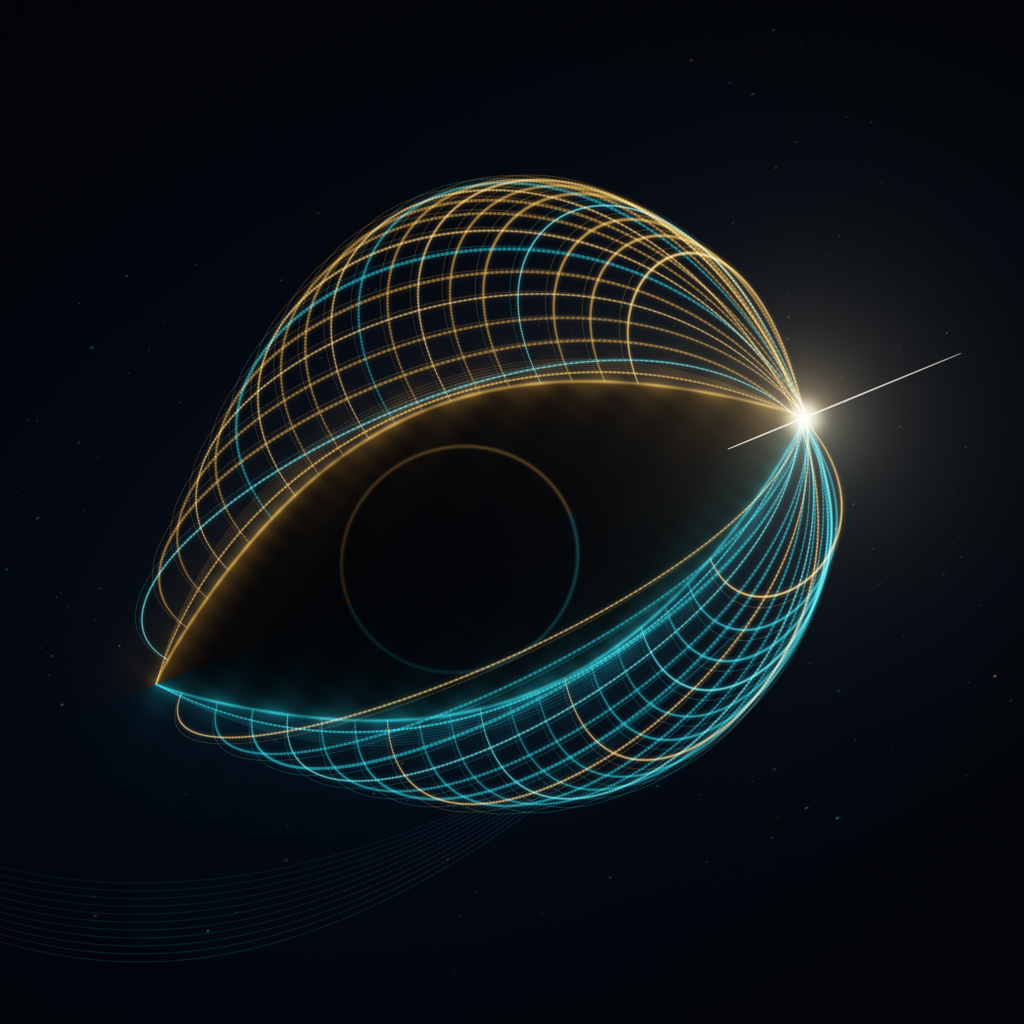
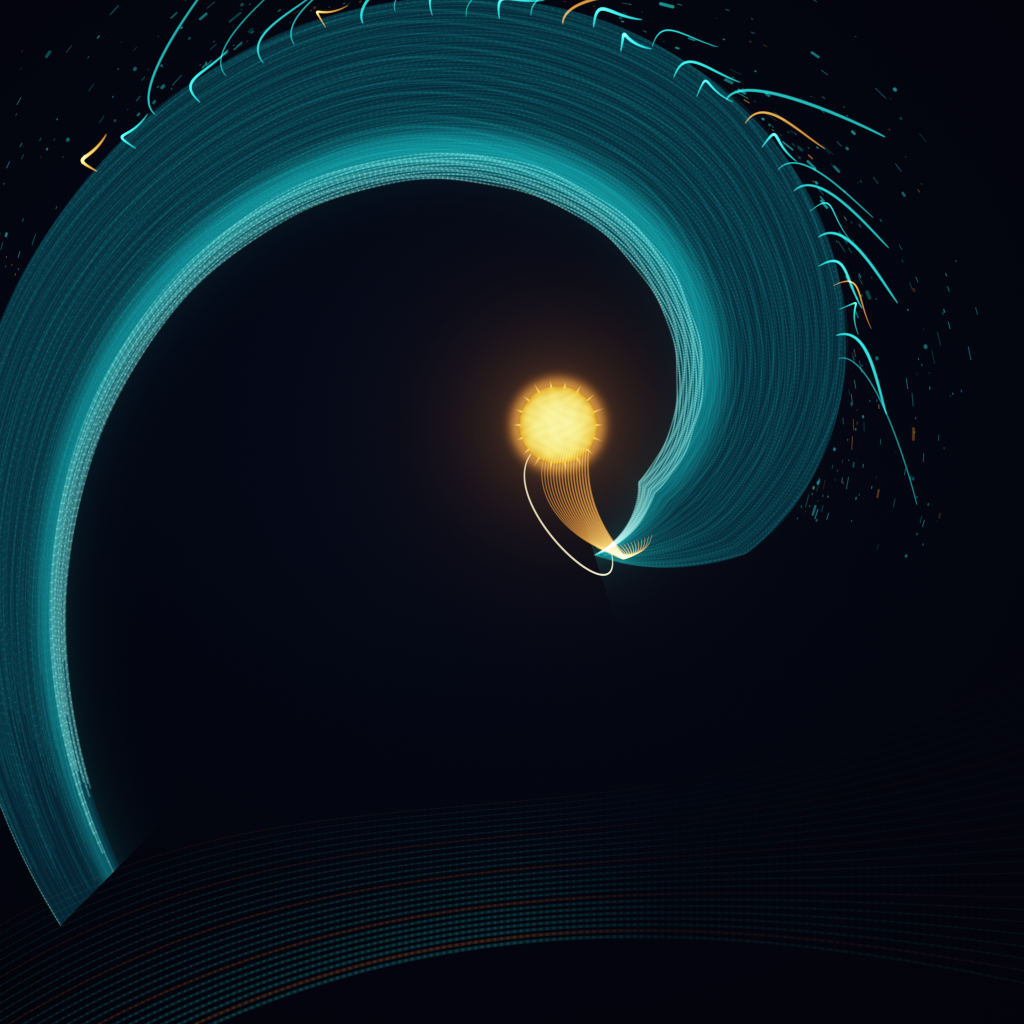
new entry: the wave that swallows a sun (radiant flares, softened streaks, luminous tail edge)

diff --git a/main.ts b/main.ts
@@ -2,7 +2,7 @@ import { mkdir, writeFile } from 'node:fs/promises';
 import { join } from 'node:path';
 import { deflateSync } from 'node:zlib';
 
-// SOLAR IRIS — a magnetic aperture caught at the instant it opens.
+// SUNSTEALER — an ocean of aurora curls up and steals a living sun.
 // All geometry and grain are deterministic; render at twice the final size.
 const W = 1024, H = 1024, S = 2, SW = W * S, SH = H * S;
 type Point = readonly [number, number];
@@ -14,11 +14,7 @@ const hash = (x: number, y: number) => {
   n = Math.imul(n ^ (n >>> 13), 1274126177);
   return ((n ^ (n >>> 16)) >>> 0) / 4294967296;
 };
-const angle = -0.39, ca = Math.cos(angle), sa = Math.sin(angle);
-function world(u: number, v: number): Point {
-  return [480 + u * ca - v * sa, 551 + u * sa + v * ca];
-}
-const gold: Color = [255, 172, 58], cyan: Color = [36, 224, 246];
+const gold: Color = [255, 132, 32], cyan: Color = [22, 235, 222];
 
 // Additive radiance with a soft shoulder: overlapping strands retain detail.
 function expose(value: number) { return 255 * (1 - Math.exp(-Math.max(0, value) / 255)); }
@@ -39,7 +35,7 @@ function stroke(a: Point, b: Point, radius: number, color: Color, strength: numb
     for (let c = 0; c < 3; c++) pixels[index + c] += color[c] * coverage;
   }
 }
-function curve(points: readonly Point[], width: number, color: Color, strength: number) {
+function curve(points: readonly Point[], width: number, color: Color, strength: number, fadeBottomRight = false) {
   const [a, b, c, d] = points;
   const count = 180;
   let previous = a;
@@ -48,93 +44,138 @@ function curve(points: readonly Point[], width: number, color: Color, strength: 
     const next: Point = [u ** 3 * a[0] + 3 * u * u * t * b[0] + 3 * u * t * t * c[0] + t ** 3 * d[0],
       u ** 3 * a[1] + 3 * u * u * t * b[1] + 3 * u * t * t * c[1] + t ** 3 * d[1]];
     const taper = 0.22 + 0.78 * Math.sin(Math.PI * t) ** 0.45;
-    stroke(previous, next, width * taper, color, strength);
+    const fade = fadeBottomRight ? 1 - 0.72 * clamp((next[0] - 512) / 160) * clamp((next[1] - 512) / 160) : 1;
+    stroke(previous, next, width * taper, color, strength * fade);
     previous = next;
   }
 }
-function localCurve(points: readonly Point[], width: number, color: Color, strength: number) {
-  curve(points.map(([u, v]) => world(u, v)), width, color, strength);
+const start = 2.35, end = 7.55;
+const spiralRadius = (a: number) => 660 * Math.exp(-0.305 * (a - start));
+const breadth = (a: number) => (42 + 57 * Math.sin(clamp((a - start) / (end - start)) * Math.PI)) * Math.min(1, (end - a) / 0.68);
+function wave(a: number, offset = 0): Point {
+  const r = spiralRadius(a) + offset;
+  return [554 + r * Math.cos(a), 426 + r * Math.sin(a)];
 }
 
 function render() {
-  const tip = world(350, 0);
+  // A continuous shaded volume gives the crest weight even at thumbnail size.
+  // Analytic polar distance keeps the surface clean, without polygon seams.
   for (let y = 0; y < SH; y++) for (let x = 0; x < SW; x++) {
     const px = (x + 0.5) / S, py = (y + 0.5) / S;
-    const dx = px - 480, dy = py - 551;
-    const u = dx * ca + dy * sa, v = -dx * sa + dy * ca;
-    const t = clamp((u + 350) / 700);
-    const height = 151 * Math.sin(Math.PI * t) ** 0.88;
-    const outside = Math.max(0, Math.abs(u) - 350);
-    const edge = Math.hypot(Math.abs(v) - height, outside * 1.5);
-    const inside = Math.abs(u) < 350 && Math.abs(v) < height;
-    const upper = v < 0;
-    const rimColor = upper ? gold : cyan;
-    const turbulence = 0.75 + 0.17 * Math.sin(u * 0.071 + v * 0.097) + 0.08 * Math.sin(u * 0.231 - v * 0.143);
-    const rim = (0.95 * Math.exp(-edge * edge / 2.8) + 0.36 * Math.exp(-edge / 10) + 0.14 * Math.exp(-edge / 39)) * turbulence;
-    const haze = Math.exp(-((u / 570) ** 2 + (v / 300) ** 2));
-    const tipDistance = Math.hypot(px - tip[0], py - tip[1]);
-    const flare = 2.7 * Math.exp(-tipDistance * tipDistance / 180) + 0.9 * Math.exp(-tipDistance / 23) + 0.34 * Math.exp(-tipDistance / 93);
-    const vignette = clamp(1 - Math.hypot((px - 520) / 850, (py - 500) / 850));
-    const base = inside ? [1.4, 3.0, 7.0] : [2.5 + haze * 2, 5 + haze * 10, 12 + haze * 18];
+    const dx = px - 554, dy = py - 426, r = Math.hypot(dx, dy);
+    let a = Math.atan2(dy, dx);
+    if (a < start) a += Math.PI * 2;
+    const valid = a <= end;
+    const width = valid ? breadth(a) : 0;
+    const delta = r - spiralRadius(a);
+    const q = delta / Math.max(0.1, width);
+    const haze = Math.exp(-(((px - 460) / 500) ** 2) - ((py - 420) / 430) ** 2);
+    const sunR = Math.hypot(px - 558, py - 425);
+    const sunGlow = 0.65 * Math.exp(-sunR / 53) + 1.2 * Math.exp(-(((sunR - 39) / 9) ** 2));
     const index = (y * SW + x) * 3;
-    for (let c = 0; c < 3; c++) pixels[index + c] = base[c] * (0.65 + vignette * 0.35) + rimColor[c] * rim + [255, 222, 162][c] * flare;
-
-    // A dim circular event horizon inside the almond gives it an iris,
-    // while preserving the large, almost black central negative space.
-    const r = Math.hypot((u + 22) * 0.94, v);
-    const polar = Math.atan2(v, u + 22);
-    const crescent = Math.exp(-(((r - 112) / 1.8) ** 2)) * (0.12 + 0.2 * (0.5 + 0.5 * Math.cos(polar + 0.7)));
-    if (inside) for (let c = 0; c < 3; c++) pixels[index + c] += (upper ? gold[c] : cyan[c]) * crescent;
-  }
-
-  // Large field loops curl back to a shared ignition point. Unequal spacing,
-  // reach and curvature keep the silhouette organic rather than mechanical.
-  for (const side of [-1, 1]) {
-    for (let j = 0; j < 19; j++) {
-      const q = j / 18;
-      const root = -330 + q * 540;
-      const h = 151 * Math.sin(Math.PI * (root + 350) / 700) ** 0.88;
-      const reach = (140 + 155 * Math.sin(q * Math.PI)) * (side < 0 ? 1 : 0.76);
-      const points: Point[] = [[root, side * h], [root - 110 + q * 110, side * (h + reach)],
-        [230 + q * 170, side * (reach + 90) - 35], [350 + (hash(j, side + 4) - 0.5) * 12, (hash(j, 7) - 0.5) * 12]];
-      const color = side < 0 ? (j % 5 === 0 ? cyan : gold) : (j % 6 === 0 ? gold : cyan);
-      localCurve(points, 5.2, color, 0.016);
-      localCurve(points, 1.05 + hash(j, side + 10) * 0.7, color, 0.36);
-      if (j % 3 === 0) localCurve(points, 0.3, [255, 246, 206], 0.55);
-      const companion: Point[] = points.map(([a, b], k) => [a - (k === 3 ? 0 : 5), b + side * (k === 3 ? 0 : 5 + q * 5)]);
-      localCurve(companion, 0.36, color, 0.22);
+    const base = [2.5 + haze * 2, 3 + haze * 6, 11 + haze * 14];
+    for (let c = 0; c < 3; c++) pixels[index + c] = base[c] + gold[c] * sunGlow;
+    if (valid) {
+      const glow = Math.exp(-Math.abs(delta + width * 0.7) / 21) * 0.19;
+      for (let c = 0; c < 3; c++) pixels[index + c] += cyan[c] * glow;
+      if (Math.abs(q) < 1) {
+        const edge = clamp((1 - Math.abs(q)) * width * 1.4);
+        const ridge = Math.exp(-(((q + 0.65) / 0.22) ** 2));
+        const ribs = (0.5 + 0.5 * Math.sin(q * 48 + a * 11 + Math.sin(a * 7) * 1.7)) ** 8;
+        const silk = (0.5 + 0.5 * Math.sin(q * 151 + a * 19)) ** 14;
+        const light = (0.15 + 0.95 * ridge + 0.17 * ribs + 0.07 * silk) * (0.7 + 0.3 * Math.sin(a - 3));
+        const body: Color = [5 + 10 * light, 25 + 160 * light, 43 + 163 * light];
+        for (let c = 0; c < 3; c++) pixels[index + c] = pixels[index + c] * (1 - edge) + body[c] * edge;
+      }
+    }
+    // The sun has a hard circular limb and turbulent, incandescent interior.
+    if (sunR < 39) {
+      const limb = Math.sqrt(Math.max(0, 1 - (sunR / 39) ** 2));
+      const cells = Math.sin(px * 0.31 + Math.sin(py * 0.19) * 2) * Math.sin(py * 0.37 + Math.sin(px * 0.12));
+      const power = 1.7 + limb * 2.1 + cells * 0.28;
+      pixels[index] = 255 * power;
+      pixels[index + 1] = (110 + limb * 95) * power;
+      pixels[index + 2] = (12 + limb * 55) * power;
     }
   }
 
-  // Thin, windswept trailing arcs make the motion legible at thumbnail size.
-  for (let j = 0; j < 11; j++) {
-    const shift = j * 9;
-    localCurve([[-615, 70 + shift], [-465, 200 + shift], [-240, 282 + shift], [160 + j * 10, 200 - j * 5]],
-      0.45, cyan, 0.08 + j * 0.005);
+  // Long liquid laminae follow one accelerating curl. Uneven, interrupted
+  // highlights avoid the uniform wireframe appearance of a mathematical spiral.
+  for (let j = 0; j < 76; j++) {
+    const f = j / 75 * 2 - 1;
+    const from = start + hash(j, 11) * 0.35;
+    const to = end - hash(j, 12) * 0.17;
+    let previous = wave(from, f * breadth(from));
+    for (let k = 1; k <= 310; k++) {
+      const a = from + (to - from) * k / 310;
+      const flutter = Math.sin(a * 13 + j * 0.7) * Math.sin(a * 4 + j) * 1.4;
+      const p = wave(a, f * breadth(a) + flutter * Math.sin((a - from) / (to - from) * Math.PI));
+      const hot = f < -0.68;
+      const color: Color = hot ? [130, 255, 232] : cyan;
+      const strength = (hot ? 0.52 : 0.13) * (0.55 + 0.45 * Math.sin(a * 9 + j * 1.7) ** 2);
+      stroke(previous, p, hot ? 0.8 : 0.36 + hash(j, 14) * 0.45, color, strength);
+      previous = p;
+    }
   }
 
-  // Fine plasma threads hug the aperture without crossing its dark interior.
-  for (let side of [-1, 1]) for (let j = 0; j < 7; j++) {
-    const h = (side < 0 ? 209 : 205) + j * 4;
-    localCurve([[-350, 0], [-180, side * h], [160, side * h], [350, 0]],
-      j === 0 ? 1.1 : 0.35, side < 0 ? gold : cyan, j === 0 ? 0.62 : 0.15);
+  // A thin luminous rim traces the lower-left tail's exiting contour.
+  let tailPrevious = wave(start, breadth(start));
+  for (let k = 1; k <= 100; k++) {
+    const t = k / 100, a = start + t * 0.48;
+    const p = wave(a, breadth(a));
+    stroke(tailPrevious, p, 0.55, [130, 255, 232], 0.48 * (1 - t) ** 0.7);
+    tailPrevious = p;
   }
 
-  // A single bright knot and directional diffraction spike, aligned to the eye.
-  const hot: Color = [255, 250, 229];
-  localCurve([[268, 0], [320, 0], [410, 0], [520, 0]], 0.75, hot, 0.85);
-  stroke(world(350, -29), world(350, 29), 0.42, cyan, 0.7);
-  stroke(tip, tip, 3.2, hot, 12);
+  // The curling lip strips a long molten filament directly off the sun.
+  for (let j = 0; j < 17; j++) {
+    const s = j / 16;
+    curve([[548 + s * 41, 448], [512 + s * 65, 520 + s * 22],
+      [644 + s * 23, 590 - s * 12], wave(end - 0.43 + s * 0.4, -8)],
+      0.55 + s * 0.65, gold, 0.48);
+  }
+  curve([[531, 454], [494, 504], [625, 623], wave(end - 0.12)], 0.85, [255, 235, 152], 0.95);
 
-  // Sparse, tiny sparks flow into the same corner; no competing bright stars.
-  for (let j = 0; j < 190; j++) {
-    const u = -500 + hash(j, 40) * 1030;
-    const v = (hash(j, 41) - 0.5) * 790;
-    const h = Math.abs(u) < 350 ? 151 * Math.sin(Math.PI * clamp((u + 350) / 700)) ** 0.88 : 0;
-    if (Math.abs(u) < 355 && Math.abs(v) < h + 24) continue;
-    const p = world(u, v);
-    const radius = 0.2 + hash(j, 42) ** 4 * 0.85;
-    stroke(p, world(u + 0.6 + hash(j, 43) * 2, v - 0.3), radius, j % 3 ? cyan : gold, 0.14 + hash(j, 44) * 0.38);
+  // Spray tears away tangentially at the crest: distinct sweeping blades,
+  // then tiny droplets, all traveling in the same direction.
+  for (let j = 0; j < 32; j++) {
+    const a = 3.65 + j / 31 * 2.4;
+    const root = wave(a, breadth(a) * (0.75 + hash(j, 25) * 0.22));
+    const reach = 30 + hash(j, 26) ** 2 * 138;
+    const tangent: Point = [-Math.sin(a), Math.cos(a)];
+    const radial: Point = [Math.cos(a), Math.sin(a)];
+    const tip: Point = [root[0] + tangent[0] * reach + radial[0] * reach * 0.26,
+      root[1] + tangent[1] * reach + radial[1] * reach * 0.26];
+    curve([root, [root[0] + radial[0] * 34, root[1] + radial[1] * 34],
+      [tip[0] - tangent[0] * 35, tip[1] - tangent[1] * 35], tip],
+      0.6 + hash(j, 27) * 1.1, j % 7 === 0 ? gold : cyan, 0.4);
+  }
+  for (let j = 0; j < 480; j++) {
+    const a = 3.4 + hash(j, 30) * 3.25;
+    const offset = breadth(a) + 6 + hash(j, 31) ** 2 * 130;
+    const p = wave(a, offset);
+    const length = 1 + hash(j, 32) ** 4 * 13;
+    const q: Point = [p[0] - Math.sin(a) * length, p[1] + Math.cos(a) * length];
+    stroke(p, q, 0.25 + hash(j, 33) ** 5 * 1.6, j % 9 === 0 ? gold : cyan, 0.18 + hash(j, 34) * 0.7);
+  }
+
+  // Broad perspective currents feed the giant wave from outside the frame.
+  for (let j = 0; j < 26; j++) {
+    const v = j / 25;
+    curve([[-120, 1010 + v * 220], [270, 686 + v * 240],
+      [570, 920 - v * 45], [1100, 640 + v * 360]],
+      0.45 + v * 1.25, j % 6 === 0 ? gold : cyan, 0.06 + v * 0.07, true);
+  }
+  // Short tapered radial flares establish that the captive light is a star.
+  for (let j = 0; j < 18; j++) {
+    const a = j * Math.PI * 2 / 18;
+    const reach = 5 + hash(j, 50) * 7;
+    for (let k = 0; k < 10; k++) {
+      const t = k / 10, r = 38 + reach * t, nextR = 38 + reach * (k + 1) / 10;
+      stroke([558 + Math.cos(a) * r, 425 + Math.sin(a) * r],
+        [558 + Math.cos(a) * nextR, 425 + Math.sin(a) * nextR],
+        0.8 * (1 - t), gold, 0.9 * (1 - t));
+    }
   }
 }
 
